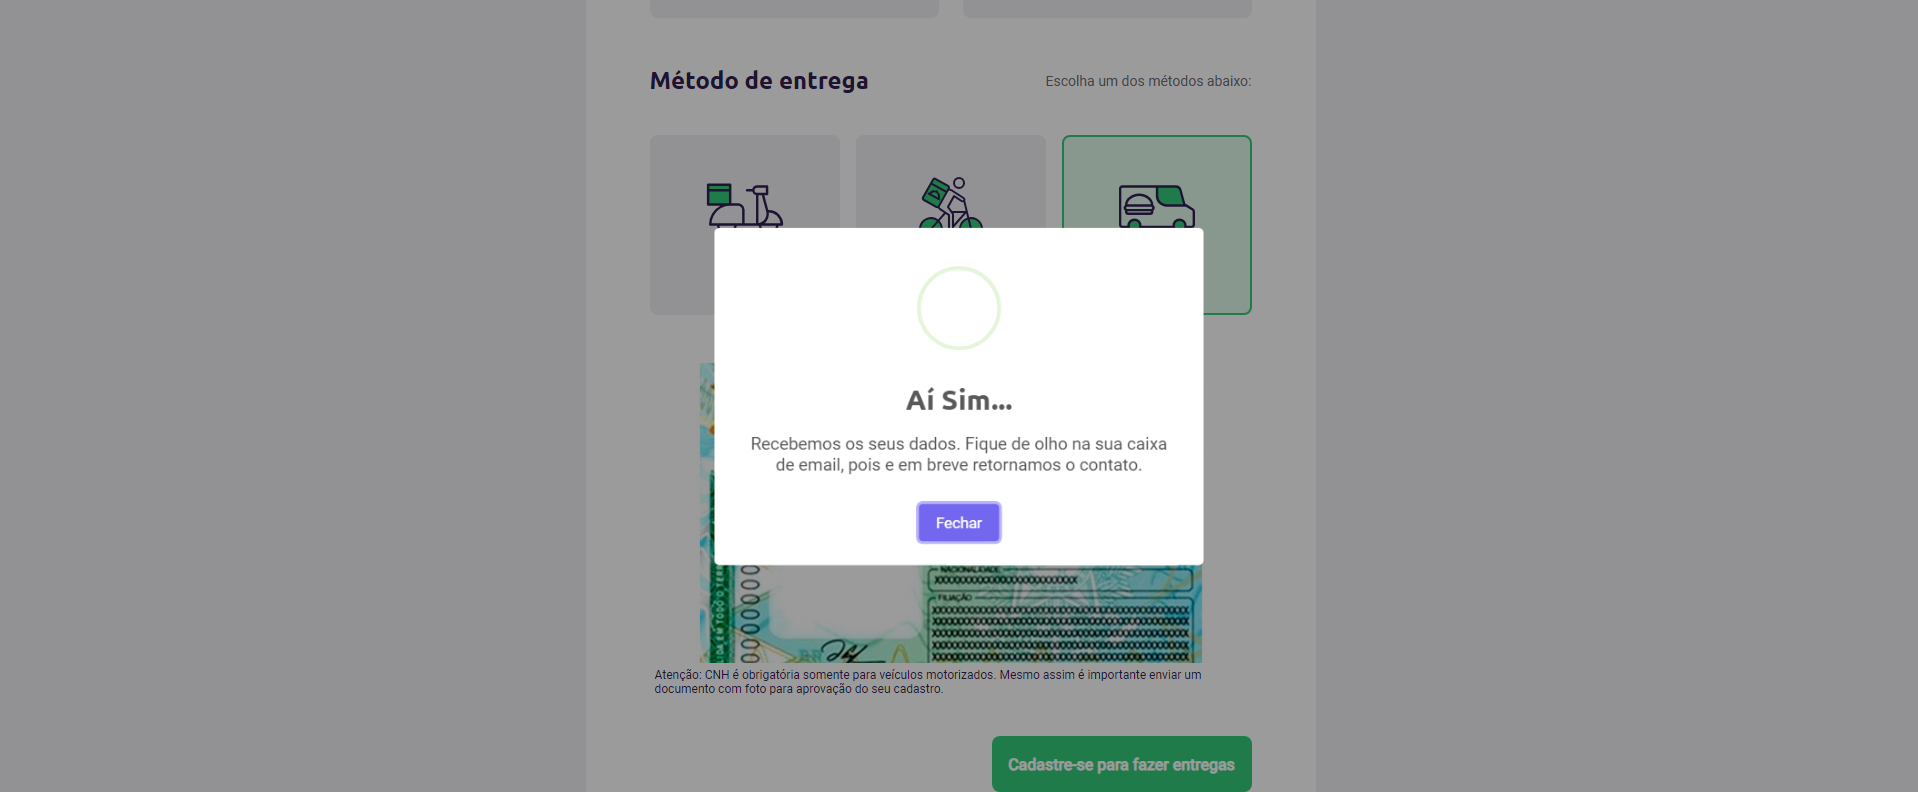
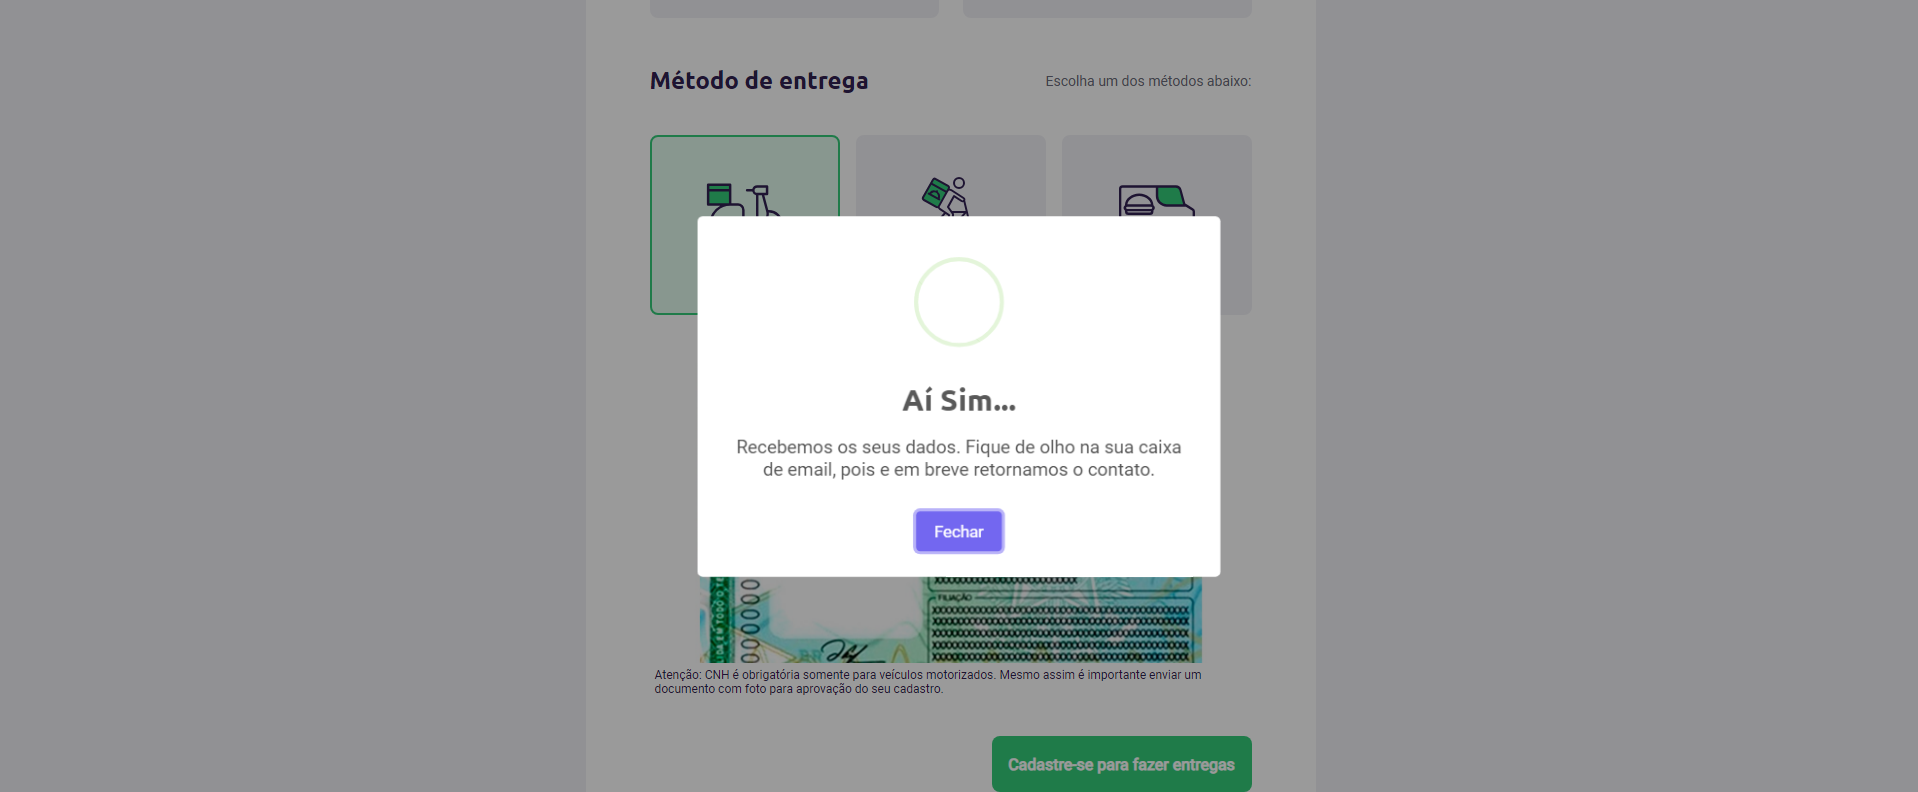
correção de prints

diff --git a/BugerEats/src/test/java/steps/Cadastro.java b/BugerEats/src/test/java/steps/Cadastro.java
@@ -19,8 +19,8 @@ public class Cadastro {
 	@Given("que estou na página do Buger Eats")
 	public void queEstouNaPáginaDoBugerEats() throws Exception {
 		Executa.abrirNavegador("Chrome", "https://buger-eats-qa.vercel.app/");
-		metodos.validarUrl("https://buger-eats-qa.vercel.app/");
-		metodos.tirarEvidencia("home", "PaginaInicialDoBugerEats");
+		metodos.validarUrl("https://buger-eats-qa.vercel.app/", "validando URL da página inicial  do Buger Eats");
+		metodos.tirarEvidencia("home", "PaginaInicialDoBugerEats", "tirando evidencia da PaginaInicialDoBugerEats");
 	}
 
 	@When("clicar em “Cadastre-se para fazer entregas”")
@@ -30,8 +30,10 @@ public class Cadastro {
 
 	@When("o usuário é direcionado para página de cadastro")
 	public void oUsuárioÉDirecionadoParaPáginaDeCadastro() {
-		metodos.validarUrl("https://buger-eats-qa.vercel.app/deliver");
-		metodos.tirarEvidencia("cadastro", "PaginaDeCadastroDoBugerEats");
+		metodos.validarUrl("https://buger-eats-qa.vercel.app/deliver",
+				"validando URL da página de cadastro do Buger Eats");
+		metodos.tirarEvidencia("cadastro", "PaginaDeCadastroDoBugerEats",
+				"tirando evidencia da PaginaDeCadastroDoBugerEats");
 	}
 
 	@When("o usuário completa o cadastro com todos os dados obrigatórios")
@@ -44,69 +46,78 @@ public class Cadastro {
 		metodos.clicar(cadastropage.buscarCepBtn, "clicando em botão buscar CEP");
 		metodos.escrever(cadastropage.numero, "297", "preenchendo o campo número");
 		metodos.escrever(cadastropage.complemento, "Casa 1", "preenchendo o campo complemento");
-		metodos.tirarEvidencia("cadastro", "CadastroComTodosOsDadosObrigatorios");
+		metodos.tirarEvidencia("cadastro", "CadastroComTodosOsDadosObrigatorios",
+				"tirando evidencia do CadastroComTodosOsDadosObrigatorios");
 	}
 
 	@When("o usuário escolhe o método de entrega moto")
 	public void o_usuário_escolhe_o_método_de_entrega_moto() {
 		metodos.clicar(cadastropage.moto, "escolhendo método moto");
-		metodos.tirarEvidencia("cadastro", "Moto");
+		metodos.tirarEvidencia("cadastro", "Moto", "tirando evidencia escolhendo método moto");
 	}
 
 	@When("o usuário faz upload da CNH")
 	public void o_usuário_faz_upload_da_cnh() {
 		metodos.clicar(cadastropage.fotoDaSuaCNH, "clicando para carregar foto");
-		metodos.uploadArquivo();
-		metodos.tirarEvidencia("cadastro", "UploadDaCNH");
+		metodos.uploadArquivo("upload da CNH");
+		metodos.tirarEvidencia("cadastro", "UploadDaCNH", "tirando evidencia do UploadDaCNH");
 	}
 
 	@Then("o usuário é cadastrado com sucesso no sistema")
 	public void oUsuárioÉCadastradoComSucessoNoSistema() {
 		metodos.clicar(cadastropage.cadastroBtn, "clicando no botão para fazer cadastro");
-		metodos.validarTexto(cadastropage.cadastroComSucesso, "Aí Sim...");
-		metodos.tirarEvidencia("cadastro", "CadastroComSucesso");
+		metodos.validarTexto(cadastropage.cadastroComSucesso, "Aí Sim...", "validando cadastro com sucesso");
+		metodos.tirarEvidencia("cadastro", "CadastroComSucesso", "tirando evidencia do CadastroComSucesso");
 		Executa.fecharNavegador();
 	}
 
 	@When("o usuário escolhe o método de entrega bike elétrica")
 	public void o_usuário_escolhe_o_método_de_entrega_bike_elétrica() {
 		metodos.clicar(cadastropage.bikeEletrica, "escolhendo método bike eletrica");
-		metodos.tirarEvidencia("cadastro", "BikeEletrica");
+		metodos.tirarEvidencia("cadastro", "BikeEletrica", "tirando evidencia escolhendo método BikeEletrica");
 	}
 
 	@When("o usuário escolhe o método de entrega van\\/carro")
 	public void o_usuário_escolhe_o_método_de_entrega_van_carro() {
 		metodos.clicar(cadastropage.vanCarro, "escolhendo método van/carro");
-		metodos.tirarEvidencia("cadastro", "VanCarro");
+		metodos.tirarEvidencia("cadastro", "VanCarro", "tirando evidencia escolhendo método VanCarro");
 	}
 
 	@When("o usuário não faz upload da CNH")
 	public void o_usuário_não_faz_upload_da_cnh() {
-		metodos.tirarEvidencia("cadastro", "SemUpload");
+		metodos.scrollTela(0, 400);
+		metodos.tirarEvidencia("cadastro", "SemUpload", "tirando evidencia não fazendo Upload");
 		metodos.clicar(cadastropage.cadastroBtn, "clicando no botão para fazer cadastro");
 	}
 
 	@Then("o usuário é informado sobre a necessidade de fazer upload de CNH")
 	public void o_usuário_é_informado_sobre_a_necessidade_de_fazer_upload_de_cnh() {
-		metodos.validarTexto(cadastropage.adicioneCNH, "Adicione uma foto da sua CNH");
-		metodos.tirarEvidencia("cadastro", "AdicioneUmaFotoDaDuaCNH");
+		metodos.validarTexto(cadastropage.adicioneCNH, "Adicione uma foto da sua CNH",
+				"validando cadastro com sucesso");
+		metodos.tirarEvidencia("cadastro", "AdicioneUmaFotoDaDuaCNH", "tirando evidencia da obrigatoriedade do Upload");
 		Executa.fecharNavegador();
 	}
 
 	@When("o usuário tenta se cadastrar sem preencher todos os campos obrigatórios")
 	public void o_usuário_tenta_se_cadastrar_sem_preencher_todos_os_campos_obrigatórios() {
-		metodos.tirarEvidencia("cadastro", "SemCamposObrigatorios");
+		metodos.tirarEvidencia("cadastro", "SemCamposObrigatorios", "tirando evidencia de campos não preenchido");
 		metodos.clicar(cadastropage.cadastroBtn, "clicando no botão para fazer cadastro");
 	}
 
 	@Then("o sistema apresenta mensagens indicando quais campos são obrigatórios")
 	public void o_sistema_apresenta_mensagens_indicando_quais_campos_são_obrigatórios() {
-		metodos.validarTexto(cadastropage.informarNome, "É necessário informar o nome");
-		metodos.validarTexto(cadastropage.informarCPF, "É necessário informar o CPF");
-		metodos.validarTexto(cadastropage.informarEmail, "É necessário informar o email");
-		metodos.validarTexto(cadastropage.informarCEP, "É necessário informar o CEP");
-		metodos.validarTexto(cadastropage.informarNumEndereco, "É necessário informar o número do endereço");
-		metodos.tirarEvidencia("cadastro", "AlertasDeCamposEmBranco");
+		metodos.validarTexto(cadastropage.informarNome, "É necessário informar o nome",
+				"validando alerta de nome em branco");
+		metodos.validarTexto(cadastropage.informarCPF, "É necessário informar o CPF",
+				"validando alerta de CPF em branco");
+		metodos.validarTexto(cadastropage.informarEmail, "É necessário informar o email",
+				"validando alerta de e-mail em branco");
+		metodos.validarTexto(cadastropage.informarCEP, "É necessário informar o CEP",
+				"validando alerta de CEP em branco");
+		metodos.validarTexto(cadastropage.informarNumEndereco, "É necessário informar o número do endereço",
+				"validando alerta de número de endereço em branco");
+		metodos.tirarEvidencia("cadastro", "AlertasDeCamposEmBranco",
+				"tirando evidencia do alertas de campos não preenchido");
 		Executa.fecharNavegador();
 	}
 
@@ -120,14 +131,16 @@ public class Cadastro {
 		metodos.clicar(cadastropage.buscarCepBtn, "clicando em botão buscar CEP");
 		metodos.escrever(cadastropage.numero, "297", "preenchendo o campo número");
 		metodos.escrever(cadastropage.complemento, "Casa 1", "preenchendo o campo complemento");
-		metodos.tirarEvidencia("cadastro", "CPFInvalido");
+		metodos.scrollTela(0, -50);
+		metodos.tirarEvidencia("cadastro", "CPFInvalido", "tirando evidencia de CPF invalido");
 		metodos.clicar(cadastropage.cadastroBtn, "clicando no botão para fazer cadastro");
 	}
 
 	@Then("o sistema apresenta uma mensagem de erro indicando “CPF inválido”")
 	public void o_sistema_apresenta_uma_mensagem_de_erro_indicando_cpf_inválido() {
-		metodos.validarTexto(cadastropage.CPFInvalido, "Oops! CPF inválido");
-		metodos.tirarEvidencia("cadastro", "AlertaCPFInvalido");
+		metodos.validarTexto(cadastropage.CPFInvalido, "Oops! CPF inválido", "validando alerta de CPF em inválido");
+		metodos.scrollTela(0, -600);
+		metodos.tirarEvidencia("cadastro", "AlertaCPFInvalido", "tirando evidencia do arlerta de CPF inválido");
 		Executa.fecharNavegador();
 	}
 
@@ -141,14 +154,16 @@ public class Cadastro {
 		metodos.clicar(cadastropage.buscarCepBtn, "clicando em botão buscar CEP");
 		metodos.escrever(cadastropage.numero, "297", "preenchendo o campo número");
 		metodos.escrever(cadastropage.complemento, "Casa 1", "preenchendo o campo complemento");
-		metodos.tirarEvidencia("cadastro", "EmailInvalido");
+		metodos.tirarEvidencia("cadastro", "EmailInvalido", "tirando evidencia de email inválido");
 		metodos.clicar(cadastropage.cadastroBtn, "clicando no botão para fazer cadastro");
 	}
 
 	@Then("o sistema apresenta uma mensagem de erro “e-mail inválido”")
 	public void o_sistema_apresenta_uma_mensagem_de_erro_e_mail_inválido() {
-		metodos.validarTexto(cadastropage.emailInvalido, "Oops! Email com formato inválido.");
-		metodos.tirarEvidencia("cadastro", "AlertaEmailInvalido");
+		metodos.validarTexto(cadastropage.emailInvalido, "Oops! Email com formato inválido.",
+				"validando alerta de CPF em branco");
+		metodos.scrollTela(0, -600);
+		metodos.tirarEvidencia("cadastro", "AlertaEmailInvalido", "tirando evidencia do alerta de email inválido");
 		Executa.fecharNavegador();
 	}
 
@@ -162,14 +177,15 @@ public class Cadastro {
 		metodos.clicar(cadastropage.buscarCepBtn, "clicando em botão buscar CEP");
 		metodos.escrever(cadastropage.numero, "297", "preenchendo o campo número");
 		metodos.escrever(cadastropage.complemento, "Casa 1", "preenchendo o campo complemento");
-		metodos.tirarEvidencia("cadastro", "CEPInvalido");
+		metodos.tirarEvidencia("cadastro", "CEPInvalido", "tirando evidencia do alerta de email inválido");
 		metodos.clicar(cadastropage.cadastroBtn, "clicando no botão para fazer cadastro");
 	}
 
 	@Then("o sistema apresenta uma mensagem de erro “CEP não encontrado”")
-	public void o_sistema_apresenta_uma_mensagem_de_erro_cep_não_encontrado() {
-		metodos.validarTexto(cadastropage.CEPInvalido, "Informe um CEP válido");
-		metodos.tirarEvidencia("cadastro", "AlertaCEPInvalido");
+	public void o_sistema_apresenta_uma_mensagem_de_erro_cep_não_encontrado() throws InterruptedException {
+		metodos.validarTexto(cadastropage.CEPInvalido, "Informe um CEP válido", "validando alerta de CEP em branco");
+		metodos.scrollTela(0, -600);
+		metodos.tirarEvidenciadoAlertaCEPInvalido("tirando evidencia do alerta de email inválido");
 		Executa.fecharNavegador();
 	}
 
@@ -177,13 +193,17 @@ public class Cadastro {
 	public void oUsuárioTentaSeCadastrarSelecionandoMaisDeUmMétodoDeEntrega() {
 		metodos.clicar(cadastropage.moto, "escolhendo método bike eletrica");
 		metodos.clicar(cadastropage.bikeEletrica, "escolhendo método bike eletrica");
-		metodos.tirarEvidencia("cadastro", "SelecionandoMaisDeUmMetodoDeEntrega");
+		metodos.tirarEvidencia("cadastro", "SelecionandoMaisDeUmMetodoDeEntrega",
+				"tirando evidencia SelecionandoMaisDeUmMetodoDeEntrega");
+		metodos.clicar(cadastropage.cadastroBtn, "clicando no botão para fazer cadastro");
 	}
 
 	@Then("o sistema apresenta uma mensagem de erro “Selecionar apenas um método de entrega”")
 	public void oSistemaApresentaUmaMensagemDeErroSelecionarApenasUmMétodoDeEntrega() {
-		metodos.validarTexto(cadastropage.apenasUmMetodo, "Oops! Selecione apenas um método de entrega");
-		metodos.tirarEvidencia("cadastro", "AlertaApenasUmMetodoDeEntrega");
+		metodos.validarTexto(cadastropage.apenasUmMetodo, "Oops! Selecione apenas um método de entrega",
+				"validando seleção dee mais de um método de entrega");
+		metodos.tirarEvidencia("cadastro", "AlertaApenasUmMetodoDeEntrega",
+				"tirando evidencia alerta SelecionandoMaisDeUmMetodoDeEntrega");
 		Executa.fecharNavegador();
 	}
 }

diff --git a/BugerEats/src/test/java/metodos/Metodos.java b/BugerEats/src/test/java/metodos/Metodos.java
@@ -10,6 +10,7 @@ import java.awt.event.KeyEvent;
 import java.io.File;
 import java.io.FileInputStream;
 import java.io.IOException;
+import java.time.Duration;
 
 import org.apache.commons.io.FileUtils;
 import org.apache.poi.ss.usermodel.Cell;
@@ -17,8 +18,12 @@ import org.apache.poi.ss.usermodel.Row;
 import org.apache.poi.ss.usermodel.Workbook;
 import org.apache.poi.xssf.usermodel.XSSFWorkbook;
 import org.openqa.selenium.By;
+import org.openqa.selenium.JavascriptExecutor;
 import org.openqa.selenium.OutputType;
 import org.openqa.selenium.TakesScreenshot;
+import org.openqa.selenium.WebElement;
+import org.openqa.selenium.support.ui.ExpectedConditions;
+import org.openqa.selenium.support.ui.WebDriverWait;
 
 import conexao.DriverFactory;
 
@@ -44,34 +49,38 @@ public class Metodos extends DriverFactory {
 		}
 	}
 
-	public void enter(By elemento) {
-		driver.findElement(elemento).submit();
-	}
-
-	public void tirarEvidencia(String pasta, String nomeEvidencia) {
+	public void tirarEvidencia(String pasta, String nomeEvidencia, String descricaoPasso) {
 		TakesScreenshot scrShot = (TakesScreenshot) driver;
 		File srcFile = scrShot.getScreenshotAs(OutputType.FILE);
 		File destFile = new File("./evidencias/" + pasta + "/" + nomeEvidencia + ".png");
 		try {
 			FileUtils.copyFile(srcFile, destFile);
 		} catch (IOException e) {
-			System.out.println("Não foi possivel tirar evidencia");
-			e.printStackTrace();
+			System.out.println("***** Erro no passo *****" + descricaoPasso);
+			System.out.println(e.getCause());
+			System.out.println(e.getMessage());
 		}
 	}
 
-	public void validarUrl(String urlEsperada) {
-		String url = driver.getCurrentUrl();
-		assertTrue(url.contains(urlEsperada));
+	public void validarUrl(String urlEsperada, String descricaoPasso) {
+		try {
+			String url = driver.getCurrentUrl();
+			assertTrue(url.contains(urlEsperada));
+		} catch (Exception e) {
+			System.out.println("***** Erro no passo *****" + descricaoPasso);
+			System.out.println(e.getCause());
+			System.out.println(e.getMessage());
+		}
 	}
 
-	public void validarTexto(By elemento, String textoEsperado) {
+	public void validarTexto(By elemento, String textoEsperado, String descricaoPasso) {
 		try {
 			String textoCapturado = driver.findElement(elemento).getText();
 			assertEquals(textoEsperado, textoCapturado);
 		} catch (Exception e) {
-			System.out.println("Não foi possivel validar texto");
-			e.printStackTrace();
+			System.out.println("***** Erro no passo *****" + descricaoPasso);
+			System.out.println(e.getCause());
+			System.out.println(e.getMessage());
 		}
 	}
 
@@ -93,18 +102,14 @@ public class Metodos extends DriverFactory {
 				case NUMERIC:
 					return String.valueOf((int) celula.getNumericCellValue());
 				}
-
 			}
-
 		} catch (Exception e) {
 			System.out.println("Erro ao ler planilha");
-
 		}
-
 		return null;
 	}
 
-	public void uploadArquivo() {
+	public void uploadArquivo(String descricaoPasso) {
 		Robot robot = null;
 		try {
 			robot = new Robot();
@@ -122,12 +127,30 @@ public class Metodos extends DriverFactory {
 			robot.delay(1000);
 
 		} catch (Exception e) {
-
+			System.out.println("***** Erro no passo *****" + descricaoPasso);
+			System.out.println(e.getCause());
+			System.out.println(e.getMessage());
 		}
 	}
 
-	public void pausa() throws InterruptedException {
-		Thread.sleep(5000);
+	public void scrollTela(int n1, int n2) {
+		JavascriptExecutor js = (JavascriptExecutor) driver;
+		js.executeScript("window.scrollBy(" + n1 + "," + n2 + ")");
 	}
 
+	public void tirarEvidenciadoAlertaCEPInvalido(String descricaoPasso) {
+		WebDriverWait wait = new WebDriverWait(driver, Duration.ofSeconds(20));
+		WebElement element = wait
+				.until(ExpectedConditions.presenceOfElementLocated(By.xpath("//*[text()='Informe um CEP válido']")));
+		TakesScreenshot scrShot = (TakesScreenshot) driver;
+		File srcFile = scrShot.getScreenshotAs(OutputType.FILE);
+		File destFile = new File("./evidencias/cadastro/AlertaCEPInvalido.png");
+		try {
+			FileUtils.copyFile(srcFile, destFile);
+		} catch (IOException e) {
+			System.out.println("***** Erro no passo *****" + descricaoPasso);
+			System.out.println(e.getCause());
+			System.out.println(e.getMessage());
+		}
+	}
 }

diff --git a/BugerEats/src/test/java/runner/Executa.java b/BugerEats/src/test/java/runner/Executa.java
@@ -16,7 +16,7 @@ import io.github.bonigarcia.wdm.WebDriverManager;
 @CucumberOptions(
 		features = "src/test/resources/features",
 		glue = "steps",
-		tags = "@regressivos",
+		tags = "@CEPInvalido",
 		monochrome = true,
 		dryRun = false,
 		plugin = {"pretty", "html:target/cucumber-reports.html"},
